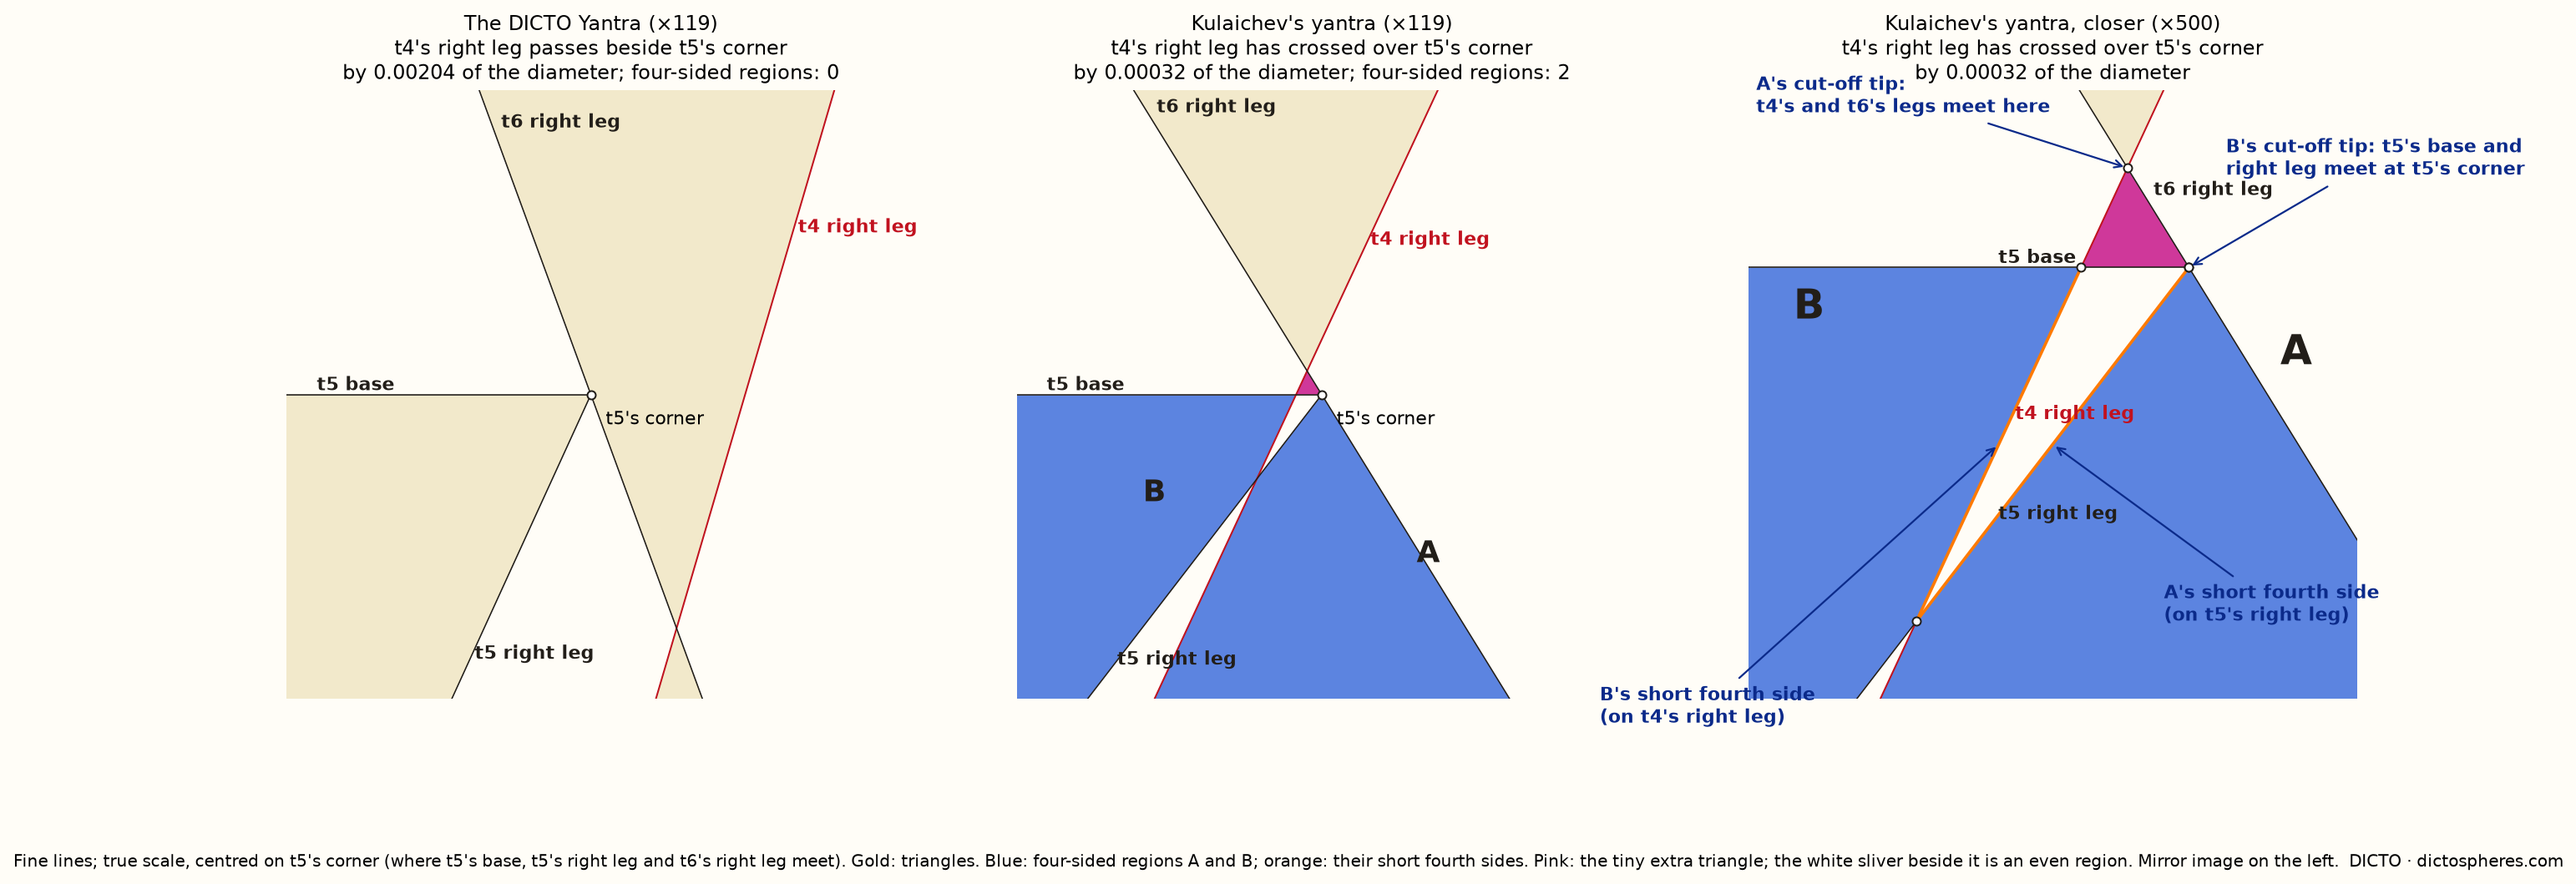
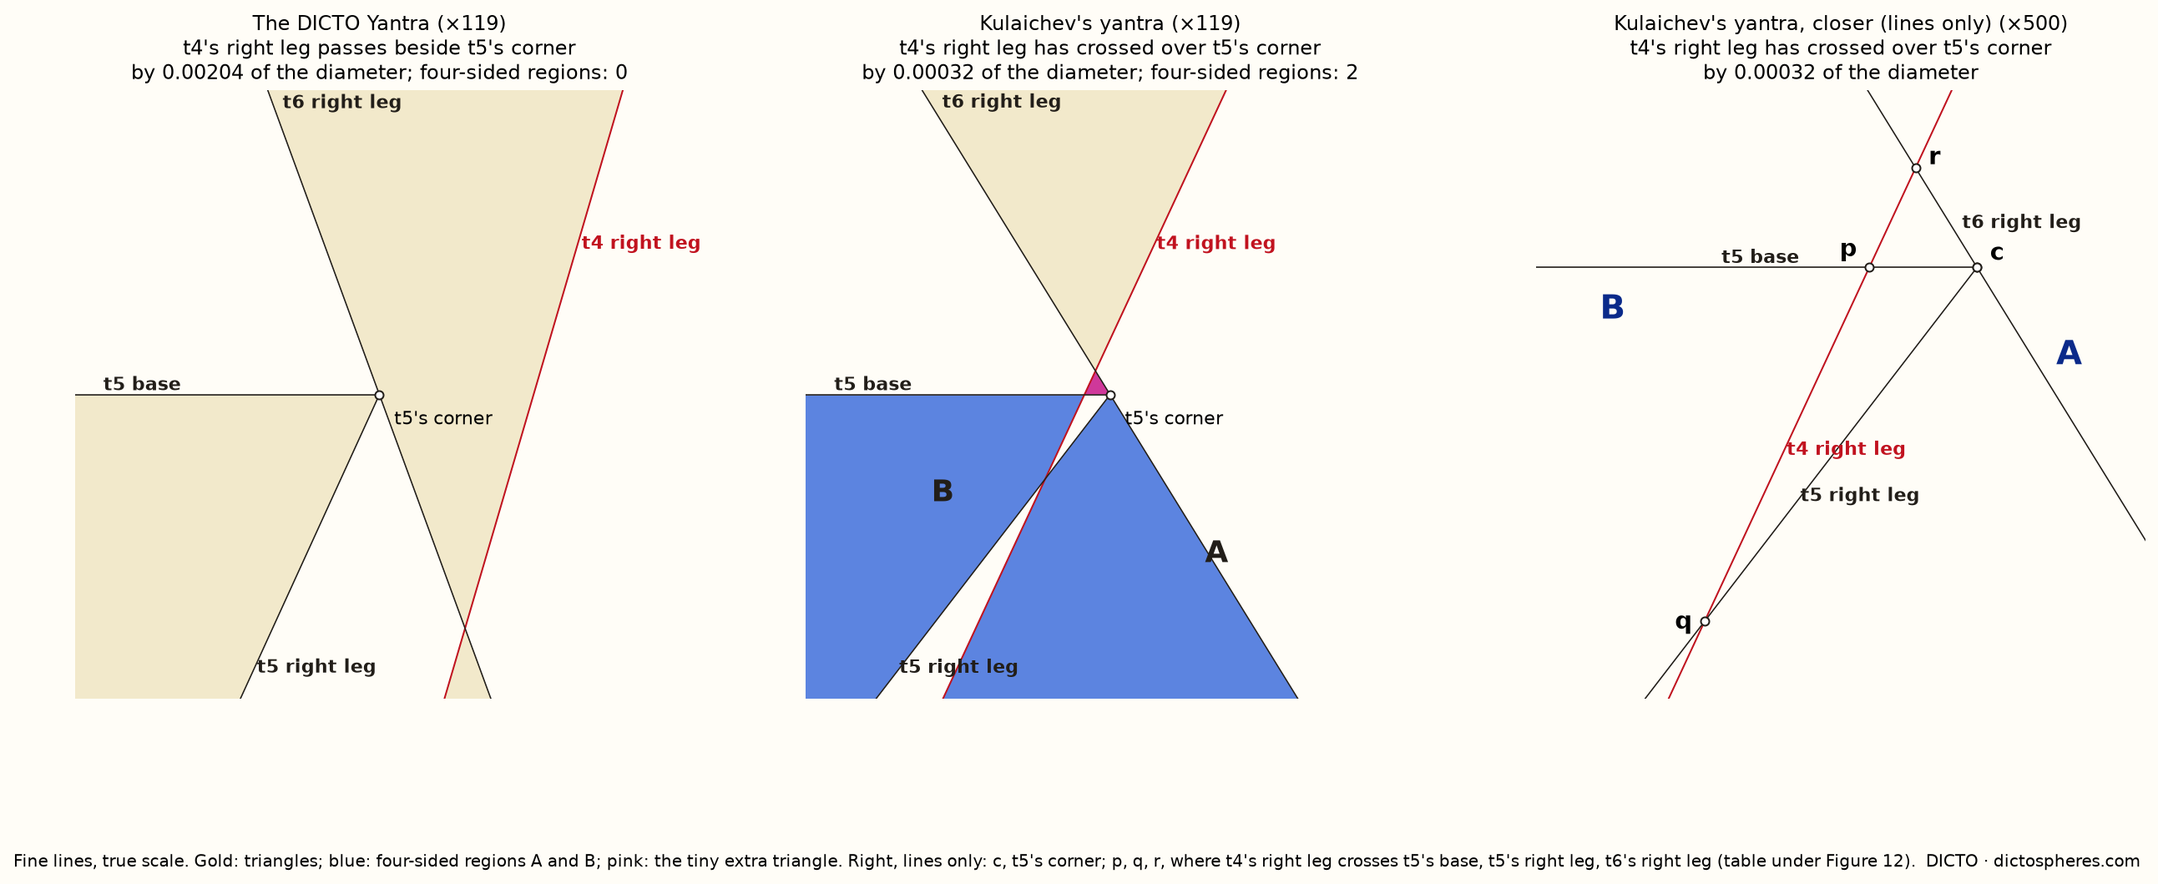
#103 v3: Figure 12 right panel lines only (c, p, q, r); Table 4 = the data behind Figure 12; status table now Table 5

diff --git a/papers/2026-11-08-dicto-yantra/paper.html b/papers/2026-11-08-dicto-yantra/paper.html
@@ -17,7 +17,7 @@ DICTO: ideas, names, constructions and direction.<br>Computation, verification a
 
 <div class="status">DRAFT of Version 3 for DICTO to read. Built from the proof audit of 9 November (studies/2026-11-09-yantra-audit: AUDIT_REPORT.md, certificates/, appendix_H.md). Before release: the data link in the meta line still points to commit 8e56566f; the audit's certificate scripts and the repaired cleo_cap.py go into the public kaleidohedra repository first, and the link moves to that commit. Attach H-full.txt (Appendix H), threshold-minpoly-u.txt (Proposition 13) and g1-minpoly-t.txt (G1) beside the two polynomial files. On release this box goes and the line below becomes the permanent Version 3 line.</div>
 
-<p class="version"><b>Version 3 adds</b> certificates for Theorems 9 and 10 (irreducibility, real-root isolation, and interval Newton with the elimination identities); certified region counts for the DICTO Yantra (43) and Kulaichev's yantra (45); Appendix H (Theorem 6's relation H in full); a proof-status table (Table 4); admissibility conditions in Theorem 1; the narrower heading of Proposition 8; DICTO's 3-4-5 rhombus yantra as the parallel exact solution beside Kulaichev's (Proposition 12); the crossing that makes Kulaichev's extra triangles and four-sided regions (Figure 12); the rhombus threshold u* where the extra triangles are born (Proposition 13); G1 exactly (degree 152); E1 placed on the edge of that threshold meeting and refined to 90 digits; and the grid figure of §7 is no longer counted as a yantra: Figure 8 ("Why a grid fails") is the evidence for Theorem 7, naming every part outside the circle, and the grid leaves Figure 2; a note on how the exact solutions rank on the traditional regions (§10, §12); and a triangles column in Table 3, with each yantra's triangles and four-sided regions shown under its name in Figure 2; and "regions" in place of "pieces" throughout, since not every region is a triangle.<br><b>Version 2 added</b> the new title; the two exact solutions, the DICTO Yantra (Theorem 9: minimal polynomial of degree 160) and Kulaichev's classical yantra (Theorem 10: degree 348), each checked independently at 260 digits and backwards from the polynomial alone, and their comparison (Proposition 11); overlay figures, each yantra dotted in its own colour over the DICTO Yantra with its shortcomings noted in red, and an overview figure; §13 sorted into closed and exact, computed, and open; and wording: "perfect" is replaced by the conditions it stood for.</p>
+<p class="version"><b>Version 3 adds</b> certificates for Theorems 9 and 10 (irreducibility, real-root isolation, and interval Newton with the elimination identities); certified region counts for the DICTO Yantra (43) and Kulaichev's yantra (45); Appendix H (Theorem 6's relation H in full); a proof-status table (Table 5); admissibility conditions in Theorem 1; the narrower heading of Proposition 8; DICTO's 3-4-5 rhombus yantra as the parallel exact solution beside Kulaichev's (Proposition 12); the crossing that makes Kulaichev's extra triangles and four-sided regions (Figure 12); the rhombus threshold u* where the extra triangles are born (Proposition 13); G1 exactly (degree 152); E1 placed on the edge of that threshold meeting and refined to 90 digits; and the grid figure of §7 is no longer counted as a yantra: Figure 8 ("Why a grid fails") is the evidence for Theorem 7, naming every part outside the circle, and the grid leaves Figure 2; a note on how the exact solutions rank on the traditional regions (§10, §12); a triangles column in Table 3, with each yantra's triangles and four-sided regions shown under its name in Figure 2; Figure 12 and its data (Table 4), so any reader can check the crossing; and "regions" in place of "pieces" throughout, since not every region is a triangle.<br><b>Version 2 added</b> the new title; the two exact solutions, the DICTO Yantra (Theorem 9: minimal polynomial of degree 160) and Kulaichev's classical yantra (Theorem 10: degree 348), each checked independently at 260 digits and backwards from the polynomial alone, and their comparison (Proposition 11); overlay figures, each yantra dotted in its own colour over the DICTO Yantra with its shortcomings noted in red, and an overview figure; §13 sorted into closed and exact, computed, and open; and wording: "perfect" is replaced by the conditions it stood for.</p>
 
 <figure class="cover"><img src="figures/dicto-yantra-3d-gf1.png" alt="The DICTO Yantra in three dimensions: spinning cones, still tetrahedra, and the yantra seen from one of three positions"></figure>
 
@@ -150,7 +150,20 @@ Q = t v (u²t³ − u²v t² − u²v² t + v) / (u²v t⁴ − u²(v² + 1) t³
 <div class="thm"><b>Proposition 11 (the two exact yantras compared).</b> Kulaichev's yantra (equal great triangles, condition (a)) has 45 odd regions and 28 sandhis, and its slope has degree 348. The DICTO Yantra (the Cleo-Antonius, uv = 2/φ³) has the traditional 43 regions and 24 sandhis, and its slope has degree 160 (u² of degree 40 over ℚ(√5)). Both meet (b), (c), (d) and the 18 marmas.</div>
 <p><i>Check.</i> The counts are those of Table 3 (figure.py, counts.py); overlay.py recounts the odd regions from the stored coordinates (45 = 14 + 10 + 12 + 8 + 1 and 43 = 14 + 10 + 10 + 8 + 1). The degrees are Theorems 9 and 10. ∎</p>
 <p>For the DICTO Yantra and Kulaichev's yantra the count is certified (certified_counts.py). The arrangement of the 27 sides is built from the exact solutions of Theorems 9 and 10, enclosed to about 500 digits. Every one of its decisions comes down to one question: do three of the 27 lines pass through one point? Each answer is either certified nonzero by interval arithmetic or proved exactly zero as an identity of the model. For the DICTO Yantra, 31 concurrencies and 36 parallel pairs are exact, and 5 909 other signs are certified; the smallest certified value is 5.2·10⁻⁶ (a near-concurrency of t6's and t8's left legs with t5's right leg). The result is 75 faces with Euler characteristic 2, and 43 odd faces (14, 10, 10, 8, 1), all 43 of them triangles, with 18 marmas and 24 sandhis. For Kulaichev's yantra, 31 concurrencies and 38 parallel pairs are exact (the extra 2 pairs are the opposite sides of the rhombus, u = v), and 5 965 signs are certified; the smallest is 5.8·10⁻⁸ (the doubled area of one of the two tiny triangles). The result is 45 odd faces (14, 10, 12, 8, 1), 41 of them triangles, with 18 marmas and 28 sandhis.</p>
-<figure><img src="figures/yantra-crossing.png" alt="Three true-scale views at t5's corner: in the DICTO Yantra t4's right leg passes beside the corner; in Kulaichev's yantra it has crossed over it, cutting the tips off two regions, which become four-sided"><figcaption><b>Figure 12. The crossing.</b> True-scale views, drawn in fine lines, centred on t5's corner, where t5's base, t5's right leg and t6's right leg meet exactly (the corner touch (5,5,6)). <b>Left:</b> in the DICTO Yantra, t4's right leg (red) passes 0.00204 of the diameter beside that corner, and every region is a triangle. <b>Middle and right:</b> in Kulaichev's yantra it has crossed over the corner, by 0.00032. It now meets the three lines at three separate points, which cuts out the tiny extra triangle (pink) and an even white sliver, and cuts the tips off two regions. Region A loses the tip where t4's and t6's legs would meet; region B loses its tip at t5's corner. Each becomes four-sided, with a short fourth side (orange) of 0.0015 (A, on t5's right leg) and 0.0013 (B, on t4's right leg), against 0.07–0.09 for its other sides. On which side of the corner t4's leg passes is one of the signs certified in Proposition 11's count; at the rhombus threshold u* it passes exactly through it (Proposition 13). Drawn from the stored 60-digit coordinates by yantra_crossing.py, which checks the side of the corner and the counts.</figcaption></figure>
+<figure><img src="figures/yantra-crossing.png" alt="Three true-scale views at t5's corner: in the DICTO Yantra t4's right leg passes beside the corner; in Kulaichev's yantra it has crossed over it, cutting the tips off two regions, which become four-sided"><figcaption><b>Figure 12. The crossing.</b> True-scale views, drawn in fine lines, centred on t5's corner, where t5's base, t5's right leg and t6's right leg meet exactly (the corner touch (5,5,6)). <b>Left:</b> in the DICTO Yantra, t4's right leg (red) passes 0.00204 of the diameter beside that corner, and every region is a triangle. <b>Middle and right:</b> in Kulaichev's yantra it has crossed over the corner, by 0.00032. It now meets the three lines at three separate points, which cuts out the tiny extra triangle (pink) and an even white sliver, and cuts the tips off two regions. Region A loses the tip where t4's and t6's legs would meet; region B loses its tip at t5's corner. Each becomes four-sided: A's short fourth side is q–c on t5's right leg (0.0015), B's is p–q on t4's right leg (0.0013), against 0.07–0.09 for their other sides. The right panel shows lines only: the four lines and their computed crossings c, p, q, r (Table 4), so the figure carries nothing that is not in the numbers. On which side of the corner t4's leg passes is one of the signs certified in Proposition 11's count; at the rhombus threshold u* it passes exactly through it (Proposition 13). Drawn from the stored 60-digit coordinates by yantra_crossing.py, which checks the side of the corner and the counts.</figcaption></figure>
+<table class="t" style="font-size:8pt"><tr><th colspan="3">The data behind Figure 12: Kulaichev's yantra, right half (circle of diameter 1; x across, depth measured down from the top)</th></tr>
+<tr><th>line</th><th>from</th><th>to</th></tr>
+<tr><td>t4's right leg</td><td>(0.156212230576, 0.413233415761)</td><td>(0, 0.749026702127)</td></tr>
+<tr><td>t5's base</td><td>(−0.129467511239, 0.471484390137)</td><td>(0.129467511239, 0.471484390137)</td></tr>
+<tr><td>t5's right leg</td><td>(0.129467511239, 0.471484390137)</td><td>(0, 0.639730610431)</td></tr>
+<tr><td>t6's right leg</td><td>(0.178385946465, 0.550705232975)</td><td>(0, 0.261818538946)</td></tr>
+<tr><th>point</th><th colspan="2">where</th></tr>
+<tr><td>c</td><td colspan="2">(0.129467511239, 0.471484390137): t5's base, t5's right leg and t6's right leg meet (the corner touch (5,5,6))</td></tr>
+<tr><td>p</td><td colspan="2">(0.129113670212, 0.471484390137): t4's right leg crosses t5's base</td></tr>
+<tr><td>q</td><td colspan="2">(0.128572745293, 0.472647160528): t4's right leg crosses t5's right leg</td></tr>
+<tr><td>r</td><td colspan="2">(0.129265705308, 0.471157576005): t4's right leg crosses t6's right leg</td></tr></table>
+<p class="small">Table 4. Twelve digits of the stored 60-digit solution. If t4's right leg passed through c, the points p, q and r would all be c; they are 0.0003–0.0012 apart, and those three crossings bound the tiny extra triangle (p, r, c), the white sliver (p, q, c) and the short sides of A (q–c) and B (p–q). Their separation is certified from the exact solution in Proposition 11's count. Any reader can plot these four lines and check Figure 12.</p>
+
 <div class="thm"><b>Proposition 12 (DICTO's 3-4-5 rhombus, the parallel exact solution).</b> With equal great triangles there are two exact yantras side by side. Kulaichev's yantra meets (a), (b), (c) and (d) exactly, with slope u of degree 348 (Theorem 10). Rh345 (§3), DICTO's rhombus made the 3-4-5 rhombus, meets (a), (b) and (c) exactly with the slope exactly 3/4, S = (21464 + 56√56869)/37825 and every other coordinate in a number field of degree 20; it misses (d) by 2.36·10⁻⁵ of the diameter. The two slopes differ by 0.06%, both have 45 odd regions and 28 sandhis, and drawn at any print size the two figures coincide (Figure 4).</div>
 <p><i>Proof.</i> §3 and rhombus345_exact.py (all 23 conditions checked exactly in the field of degree 20); Theorem 10; the counts of Table 3. ∎</p>
 <p>So the classical rhombus yantra has two exact forms: Kulaichev's, exact in every condition at degree 348, and DICTO's 3-4-5 rhombus, a far simpler number (degree 20, slope 3/4) that the eye cannot tell from it.</p>
@@ -196,7 +209,7 @@ Q = t v (u²t³ − u²v t² − u²v² t + v) / (u²v t⁴ − u²(v² + 1) t³
 <tr><td>Proposition 13 (rhombus threshold u*, degree 180)</td><td>computed (elimination and 60-digit scan), not certified</td></tr>
 <tr><td>G1 exact (degree 152); E1 on the edge, refined to 90 digits</td><td>computed, not certified</td></tr>
 <tr><td>§11 spheres (gnomonic projection keeps every meeting)</td><td>exact symbolic; caps and figures computed</td></tr></table>
-<p class="small">Table 4. How each result is established.</p>
+<p class="small">Table 5. How each result is established.</p>
 <p><b>Closed and exact.</b> The DICTO Yantra (Theorem 9, degree 160); Kulaichev's yantra (Theorem 10, degree 348); R1, in whole-number fractions (Theorem 2); Rh345, in a number field of degree 20 (§3); G1 (§9.4, degree 152). Theorem 7: no yantra has one slope for all nine triangles. With them the quadratic family itself (Theorem 1).</p>
 <p><b>Computed.</b> Every imposed condition met with 60-digit arithmetic to 10⁻⁵⁰ (E1 optimised in double precision, then rebuilt at 60 digits), exact form not found: K1, V1, PF2, E1 (E1 now refined to 90 digits on its edge, §9.6), and the other yantras of Table 3 (PF1, K2–K4, the stella and Cleo rhombus yantras). The elimination route of Theorem 9 applies to each of them.</p>
 <p><b>Open.</b> (1) Whether E1 is the most even yantra possible (a proof that the optimum is global), and whether any yantra with corners on the circle is as even. (2) The 45-region rule beyond the rhombus family (§9.5; the rhombus family is Proposition 13). (3) A rational yantra nearer the traditional drawing (rational points on the genus-2 fibres); a rational yantra on the rhombus (Δ a square on a three-parameter slice). (4) Kavi Mahesh's rational heights made exact, in ℚ(√2, √3, √Δ). (5) Irrationality of u² for PF2 (Proposition 8 (2)). (6) Proposition 8 beyond the tested families: many-sided regular polygons.</p>

diff --git a/studies/2026-11-08-sri-yantra/scripts/yantra_crossing.py b/studies/2026-11-08-sri-yantra/scripts/yantra_crossing.py
@@ -37,7 +37,7 @@ for ax, key, title, h in ((axs[0], 'GF1', 'The DICTO Yantra', 0.0042), (axs[1], 
         if not odd: continue
         isf = len(c) == 4; four += isf and cx > 0 and min(math.dist(v, C5) for v in c) < 0.003
         col = BLUE if isf else PINK if -ar < 1e-6 else GOLD
-        ax.add_patch(Polygon([(x, -y) for x, y in poly], fc=col, ec='none', alpha=0.85 if col != GOLD else 0.55))
+        if not close: ax.add_patch(Polygon([(x, -y) for x, y in poly], fc=col, ec='none', alpha=0.85 if col != GOLD else 0.55))
     for s in segs: ax.plot([s[0][0], s[1][0]], [-s[0][1], -s[1][1]], color='#999', lw=0.4)
     for name, (u0, u1) in L.items():
         col = RED if name == 't4 right leg' else INK
@@ -46,28 +46,23 @@ for ax, key, title, h in ((axs[0], 'GF1', 'The DICTO Yantra', 0.0042), (axs[1], 
         tt = [((box[0]+0.0004)-u0[0])/(u1[0]-u0[0]) if u1[0] != u0[0] else None]
         for t in (0.0, 1.0):
             pass
-        X = [u0[0] + t*(u1[0]-u0[0]) for t in [i/400 for i in range(401)]]; Yv = [u0[1] + t*(u1[1]-u0[1]) for t in [i/400 for i in range(401)]]
+        X = [u0[0] + t*(u1[0]-u0[0]) for t in [i/40000 for i in range(40001)]]; Yv = [u0[1] + t*(u1[1]-u0[1]) for t in [i/40000 for i in range(40001)]]
         ins = [(x, y) for x, y in zip(X, Yv) if box[0]+0.0003 < x < box[1]-0.0003 and box[2]+0.0003 < y < box[3]-0.0003]
         if ins:
-            x, y = ins[0] if name == 't5 base' else ins[len(ins)//4] if name == 't4 right leg' else ins[-1]
+            if close: x, y = ins[{'t5 base': len(ins)//4, 't4 right leg': (len(ins)*13)//20, 't5 right leg': (len(ins)*7)//10, 't6 right leg': (len(ins)*3)//4}[name]]
+            else: x, y = ins[0] if name == 't5 base' else ins[len(ins)//4] if name == 't4 right leg' else ins[-1]
             ax.text(x, -y, ' ' + name, color=col, fontsize=10, weight='bold', zorder=6, ha='left' if name != 't5 base' else 'left', va='bottom')
     ax.plot(C5[0], -C5[1], 'o', ms=4.5, mfc='white', mec=INK, mew=0.9, zorder=7)
     if not (key == 'KRP' and close): ax.annotate("t5's corner", (C5[0], -C5[1]), xytext=(8, -16), textcoords='offset points', fontsize=10, zorder=7)
     if key == 'KRP' and not close:
         ax.text(C5[0] + 0.35*h, -(C5[1] + 0.55*h), 'A', fontsize=16, weight='bold', color=INK, ha='center', zorder=8)
         ax.text(C5[0] - 0.55*h, -(C5[1] + 0.35*h), 'B', fontsize=16, weight='bold', color=INK, ha='center', zorder=8)
-    if key == 'KRP' and close:
-        D = '#0b2a8a'
-        ax.plot([P2[0], C5[0]], [-P2[1], -C5[1]], color='#ff7a00', lw=1.6, zorder=5)
-        ax.plot([P1[0], P2[0]], [-P1[1], -P2[1]], color='#ff7a00', lw=1.6, zorder=5)
-        for P, lab, off in ((C5, "t5's corner", (10, 6)), (P1, '', (0, 0)), (P2, '', (0, 0)), (P3, '', (0, 0))):
+    if key == 'KRP' and close:   # lines only (DICTO 10 Nov 2026): the four named lines and their computed crossing points
+        for P, lab, off in ((C5, 'c', (7, 4)), (P1, 'p', (-16, 6)), (P2, 'q', (-16, -4)), (P3, 'r', (7, 2))):
             ax.plot(P[0], -P[1], 'o', ms=4.5, mfc='white', mec=INK, mew=0.9, zorder=7)
-        ax.annotate("A's short fourth side\n(on t5's right leg)", ((P2[0]+C5[0])/2, -(P2[1]+C5[1])/2), xytext=(60, -95), textcoords='offset points', fontsize=10, color=D, weight='bold', arrowprops=dict(arrowstyle='->', color=D), zorder=9)
-        ax.annotate("B's short fourth side\n(on t4's right leg)", ((P1[0]+P2[0])/2, -(P1[1]+P2[1])/2), xytext=(-215, -150), textcoords='offset points', fontsize=10, color=D, weight='bold', arrowprops=dict(arrowstyle='->', color=D), zorder=9)
-        ax.annotate("A's cut-off tip:\nt4's and t6's legs meet here", (P3[0], -P3[1]), xytext=(-200, 30), textcoords='offset points', fontsize=10, color=D, weight='bold', arrowprops=dict(arrowstyle='->', color=D), zorder=9)
-        ax.annotate("B's cut-off tip: t5's base and\nright leg meet at t5's corner", (C5[0], -C5[1]), xytext=(20, 50), textcoords='offset points', fontsize=10, color=D, weight='bold', arrowprops=dict(arrowstyle='->', color=D), zorder=9)
-        ax.text(box[1] - 0.2*h, -(box[2] + 0.9*h), 'A', fontsize=22, weight='bold', color=INK, ha='center', zorder=8)
-        ax.text(box[0] + 0.2*h, -(box[2] + 0.75*h), 'B', fontsize=22, weight='bold', color=INK, ha='center', zorder=8)
+            ax.annotate(lab, (P[0], -P[1]), xytext=off, textcoords='offset points', fontsize=13, weight='bold', zorder=8)
+        ax.text(box[1] - 0.25*h, -(box[2] + 0.9*h), 'A', fontsize=18, weight='bold', color='#0b2a8a', ha='center', zorder=8)
+        ax.text(box[0] + 0.25*h, -(box[2] + 0.75*h), 'B', fontsize=18, weight='bold', color='#0b2a8a', ha='center', zorder=8)
         ok &= dist < 0 and four == 2
     elif key == 'KRP':
         ok &= dist < 0 and four == 2
@@ -75,8 +70,8 @@ for ax, key, title, h in ((axs[0], 'GF1', 'The DICTO Yantra', 0.0042), (axs[1], 
         ok &= dist > 0 and four == 0
     ax.set_xlim(box[0], box[1]); ax.set_ylim(-box[3], -box[2]); ax.set_aspect('equal'); ax.axis('off')
     side = 'passes beside t5\'s corner' if key == 'GF1' else 'has crossed over t5\'s corner'
-    ax.set_title(f"{title} (×{1.0/(2*h):.0f})\nt4's right leg {side}\nby {abs(dist):.5f} of the diameter" + ('' if close else f"; four-sided regions: {four}"), fontsize=11)
-fig.text(0.5, 0.03, "Fine lines; true scale, centred on t5's corner (where t5's base, t5's right leg and t6's right leg meet). Gold: triangles. Blue: four-sided regions A and B; orange: their short fourth sides. Pink: the tiny extra triangle; "
-         "the white sliver beside it is an even region. Mirror image on the left.  DICTO · dictospheres.com", ha='center', fontsize=9)
+    ax.set_title(f"{title}{' (lines only)' if close else ''} (×{1.0/(2*h):.0f})\nt4's right leg {side}\nby {abs(dist):.5f} of the diameter" + ('' if close else f"; four-sided regions: {four}"), fontsize=11)
+fig.text(0.5, 0.03, "Fine lines, true scale. Gold: triangles; blue: four-sided regions A and B; pink: the tiny extra triangle. Right, lines only: "
+         "c, t5's corner; p, q, r, where t4's right leg crosses t5's base, t5's right leg, t6's right leg (table under Figure 12).  DICTO · dictospheres.com", ha='center', fontsize=9)
 plt.savefig(sys.argv[1], dpi=160, bbox_inches='tight', facecolor='#fffdf7')
 print('FINAL ok' if ok else 'FINAL FAIL: side of the corner or the count is not as stated')
